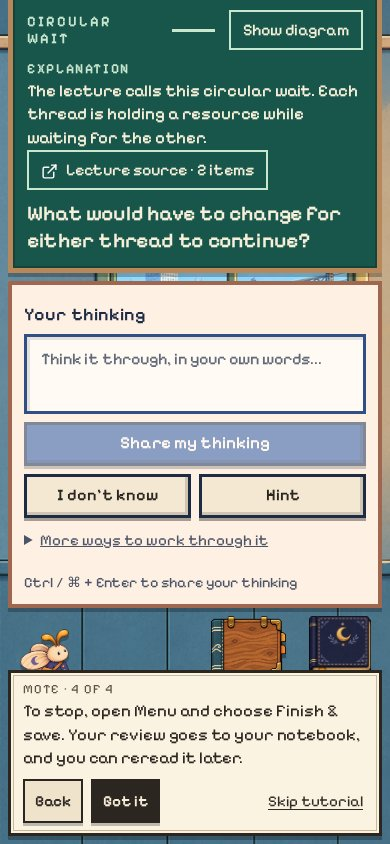
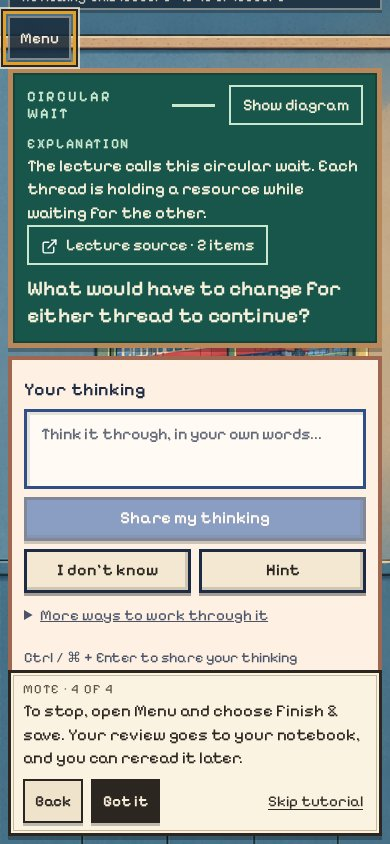
fix(app): scroll the step's own ring into view first on a phone

diff --git a/src/app/tutorial.tsx b/src/app/tutorial.tsx
@@ -191,18 +191,26 @@ function useBoxes(selectors: readonly string[]): Box[] {
 const ANSWER_CONTROLS = [".composer textarea", ".composer button", ".composer .review-help summary"];
 
 /**
- * Brings the ringed controls into view when a step starts, if any is out of view or under the bubble. `inset` is the bottom of
- * the window the bubble takes. `also` lists controls that must clear the bubble even when they are not ringed.
+ * Brings the ringed controls into view when a step starts. The step's own ring comes first: its controls are scrolled fully
+ * into view above the bubble. Then the page scrolls further, as far as the ringed controls stay in view, to keep the controls in
+ * `also` clear of the bubble. `inset` is the bottom of the window the bubble takes.
  */
 function useReveal(selectors: readonly string[], key: string, inset: number, also: readonly string[]): void {
   useEffect(() => {
     const shown = visible(selectors);
     const first = shown[0];
     if (first === undefined) return;
-    if (first.getBoundingClientRect().top < 0) first.scrollIntoView({ block: "start", behavior: "auto" });
-    const bottom = Math.max(...[...shown, ...visible(also)].map((e) => e.getBoundingClientRect().bottom));
-    const over = bottom - (window.innerHeight - inset);
+    const limit = window.innerHeight - inset;
+    const edges = (list: readonly HTMLElement[]) => list.map((e) => e.getBoundingClientRect());
+    if (first.getBoundingClientRect().top < 0) {
+      first.scrollIntoView({ block: "start", behavior: "auto" });
+      window.scrollBy({ top: -MARGIN, behavior: "auto" });
+    }
+    const over = Math.max(...edges(shown).map((r) => r.bottom)) - limit;
     if (over > 0) window.scrollBy({ top: over, behavior: "auto" });
+    const room = Math.min(...edges(shown).map((r) => r.top));
+    const more = Math.max(...edges(visible(also)).map((r) => r.bottom)) - limit;
+    if (more > 0 && room > MARGIN) window.scrollBy({ top: Math.min(more, room - MARGIN), behavior: "auto" });
   }, [selectors, key, inset, also]);
 }
 

diff --git a/e2e/tutorial.spec.ts b/e2e/tutorial.spec.ts
@@ -182,7 +182,7 @@ test("the notebook inside a review's Saved notes is not a tutorial place", async
 });
 
 for (const size of [{ width: 390, height: 844 }, { width: 320, height: 844 }]) {
-  test(`at ${size.width}x${size.height} no answer control is under the bubble on any first-question step`, async ({ page }) => {
+  test(`at ${size.width}x${size.height} no answer control is under the bubble on steps 1 to 3, and Menu is in view on step 4`, async ({ page }) => {
     await page.setViewportSize(size);
     await page.goto("/?scenario=review&tutorial=1");
     const bubble = bubbleOf(page);
@@ -196,7 +196,14 @@ for (const size of [{ width: 390, height: 844 }, { width: 320, height: 844 }]) {
     ];
     for (let step = 0; step < 4; step++) {
       await page.waitForTimeout(300);
-      for (const control of controls) expect(await overlap(bubble, control)).toBe(false);
+      if (step < 3) for (const control of controls) expect(await overlap(bubble, control)).toBe(false);
+      else {
+        // The last step points at Menu, so Menu is in view and clear of the bubble. The lower answer controls may sit under it.
+        const menu = page.getByRole("button", { name: "Menu", exact: true });
+        await expect(menu).toBeInViewport({ ratio: 1 });
+        expect(await overlap(bubble, menu)).toBe(false);
+        await expect(page.locator(".tutorial-ring")).toHaveCount(1);
+      }
       if (step < 3) await bubble.getByRole("button", { name: "Next" }).click();
     }
   });
